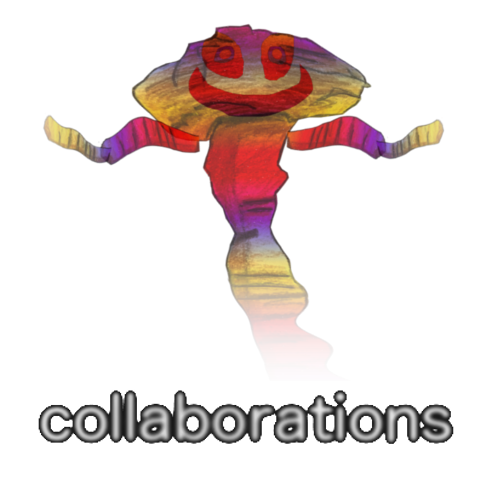
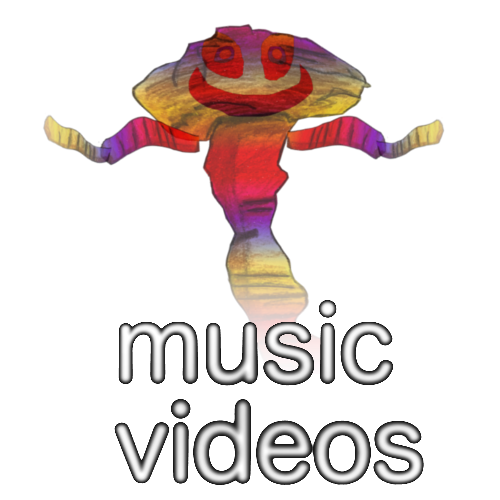
added sugar

Changed region(s): [[0.06, 0.6, 0.93, 0.99]]

diff --git a/sketchint.js b/sketchint.js
@@ -6,7 +6,6 @@ var hoourl="f5YsAUwXSHQ";
 var pimurl="15p5iMZQsp0";
 var hrfurl="3892272952";
 var chi2="http://airport-anifes.jp/en/";
-
 //background variables
 var numstars=100;
 var stars=[];
@@ -600,7 +599,7 @@ function Menu(){
 
 
 function populatemenus(){
-	for(var i=0;i<43;i++) menus[i]=new Menu();
+	for(var i=0;i<45;i++) menus[i]=new Menu();
 	
 	//main menu
 	menus[1].add(new Disptext("harry rubin-falcone: music and animation",.5,.35,.4));
@@ -609,21 +608,25 @@ function populatemenus(){
 	//menus[1].add(new Disptext("a moving painting with fractal and hand drawn art, coming 2018",.5,.7,.2));
 	menus[1].add(new Disptext("most recent:",.5,.5,.3));
 	
-	menus[1].add(new Button(true,32,.2,.62,.2,.2,false,"hawk1"));
-	menus[1].add(new Button(true,39,.4,.62,.2,.2,false,"pimba"));
-	menus[1].add(new Button(true,40,.6,.62,.2,.2,false,"hoodoos"));
-	menus[1].add(new Button(true,41,.8,.62,.2,.2,false,"hrfep"));
+	menus[1].add(new Button(true,32,.1,.62,.2,.2,false,"hawk1"));
+	menus[1].add(new Button(true,39,.3,.62,.2,.2,false,"pimba"));
+	menus[1].add(new Button(true,40,.5,.62,.2,.2,false,"hoodoos"));
+	menus[1].add(new Button(true,41,.7,.62,.2,.2,false,"hrfep"));
+	menus[1].add(new Button(true,44,.9,.62,.2,.2,false,"sugar"));
 
 	menus[32].add(new Vid(1,hawkurl,32));
 	menus[39].add(new Vid(1,pimurl,39));
 	menus[40].add(new Vid(1,hoourl,40));
 	menus[41].add(new Vid(0,hrfurl,41));
 	menus[42].add(new Vid(0,hrfurl,42));
+	menus[43].add(new Vid(1,"WEh_utcEjYU",43));
+	menus[44].add(new Vid(1,"WEh_utcEjYU",44));
 	
 	menus[32].add(new Button(true,1,.5,.75,.1,.1,false,"back"));
 	menus[39].add(new Button(true,1,.5,.75,.1,.1,false,"back"));
 	menus[40].add(new Button(true,1,.5,.75,.1,.1,false,"back"));
 	menus[41].add(new Button(true,1,.5,.75,.1,.1,false,"back"));
+	menus[44].add(new Button(true,1,.5,.75,.1,.1,false,"back"));
 	
 	
 
@@ -658,7 +661,9 @@ function populatemenus(){
 		//menus[2].add(new Button(true,22,.9,.5,asize,asize,false,"leaf1"));
 			menus[33].add(new Button(true,31,.366666,.4,asize*1.8,asize*1.8,false,"hawk1"));
 	menus[33].add(new Button(true,10,.63333,.4,asize*1.8,asize*1.8,false,"three"));
-	menus[33].add(new Button(true,14,.2,.68,asize,asize,false,"kite"));
+	menus[33].add(new Button(true,14,.15,.68,asize,asize,false,"kite"));
+	menus[33].add(new Button(true,15,.27,.68,asize,asize,false,"ship"));
+	
 	menus[33].add(new Button(true,16,.7,.68,asizeb,asizeb,false,"cows"));
 	menus[33].add(new Button(true,17,.8,.68,asizeb,asizeb,false,"train"));
 	menus[33].add(new Button(true,18,.9,.68,asizeb,asizeb,false,"hello"));
@@ -668,7 +673,7 @@ function populatemenus(){
 	menus[34].add(new Button(true,13,.74,.55,asize*1.5,asize*1.5,false,"ep3"));
 
 
-	menus[35].add(new Button(true,15,.75,.5,asize*1.5,asize*1.5,false,"ship"));
+	menus[35].add(new Button(true,43,.75,.5,asize*1.5,asize*1.5,false,"sugar"));
 	menus[35].add(new Button(true,36,.25,.5,asize*1.5,asize*1.5,false,"hoodoos"));
 	menus[35].add(new Button(true,37,.5,.5,asize*1.5,asize*1.5,false,"pimba"));
 	
@@ -746,7 +751,6 @@ function populatemenus(){
 				menus[6].add(new Button(false,"https://www.facebook.com/orvietocinemafest/photos/a.181100475954382/291980524866376/?type=3&theater",.93,.5,hfs,hfs,false,"orv"));
 
 	
-	
 	menus[6].add(new Disptext("three dancers",.25,fl2y-.1,.2));
 	var dansi=.19;
 	var fly2=.16;
@@ -795,12 +799,13 @@ function populatemenus(){
 	menus[12].add(new Button(true,34,.5,.75,.1,.1,false,"back"));
 	menus[13].add(new Button(true,34,.5,.75,.1,.1,false,"back"));
 	
-	//back button for collabs
-	menus[15].add(new Button(true,35,.5,.75,.1,.1,false,"back"));
+	//back button for music videos
+	menus[43].add(new Button(true,35,.5,.75,.1,.1,false,"back"));
 	menus[36].add(new Button(true,35,.5,.75,.1,.1,false,"back"));
 	menus[37].add(new Button(true,35,.5,.75,.1,.1,false,"back"));
 		
 	//back buttons for shorts
+	menus[15].add(new Button(true,33,.5,.75,.1,.1,false,"back"));
 	menus[10].add(new Button(true,33,.5,.75,.1,.1,false,"back"));
 	menus[14].add(new Button(true,33,.5,.75,.1,.1,false,"back"));
 	menus[16].add(new Button(true,33,.5,.75,.1,.1,false,"back"));

diff --git a/sketch.js b/sketch.js
@@ -599,7 +599,7 @@ function Menu(){
 
 
 function populatemenus(){
-	for(var i=0;i<43;i++) menus[i]=new Menu();
+	for(var i=0;i<45;i++) menus[i]=new Menu();
 	
 	//main menu
 	menus[1].add(new Disptext("harry rubin-falcone: music and animation",.5,.35,.4));
@@ -608,21 +608,25 @@ function populatemenus(){
 	//menus[1].add(new Disptext("a moving painting with fractal and hand drawn art, coming 2018",.5,.7,.2));
 	menus[1].add(new Disptext("most recent:",.5,.5,.3));
 	
-	menus[1].add(new Button(true,32,.2,.62,.2,.2,false,"hawk1"));
-	menus[1].add(new Button(true,39,.4,.62,.2,.2,false,"pimba"));
-	menus[1].add(new Button(true,40,.6,.62,.2,.2,false,"hoodoos"));
-	menus[1].add(new Button(true,41,.8,.62,.2,.2,false,"hrfep"));
+	menus[1].add(new Button(true,32,.1,.62,.2,.2,false,"hawk1"));
+	menus[1].add(new Button(true,39,.3,.62,.2,.2,false,"pimba"));
+	menus[1].add(new Button(true,40,.5,.62,.2,.2,false,"hoodoos"));
+	menus[1].add(new Button(true,41,.7,.62,.2,.2,false,"hrfep"));
+	menus[1].add(new Button(true,44,.9,.62,.2,.2,false,"sugar"));
 
 	menus[32].add(new Vid(1,hawkurl,32));
 	menus[39].add(new Vid(1,pimurl,39));
 	menus[40].add(new Vid(1,hoourl,40));
 	menus[41].add(new Vid(0,hrfurl,41));
 	menus[42].add(new Vid(0,hrfurl,42));
+	menus[43].add(new Vid(1,"WEh_utcEjYU",43));
+	menus[44].add(new Vid(1,"WEh_utcEjYU",44));
 	
 	menus[32].add(new Button(true,1,.5,.75,.1,.1,false,"back"));
 	menus[39].add(new Button(true,1,.5,.75,.1,.1,false,"back"));
 	menus[40].add(new Button(true,1,.5,.75,.1,.1,false,"back"));
 	menus[41].add(new Button(true,1,.5,.75,.1,.1,false,"back"));
+	menus[44].add(new Button(true,1,.5,.75,.1,.1,false,"back"));
 	
 	
 
@@ -657,7 +661,9 @@ function populatemenus(){
 		//menus[2].add(new Button(true,22,.9,.5,asize,asize,false,"leaf1"));
 			menus[33].add(new Button(true,31,.366666,.4,asize*1.8,asize*1.8,false,"hawk1"));
 	menus[33].add(new Button(true,10,.63333,.4,asize*1.8,asize*1.8,false,"three"));
-	menus[33].add(new Button(true,14,.2,.68,asize,asize,false,"kite"));
+	menus[33].add(new Button(true,14,.15,.68,asize,asize,false,"kite"));
+	menus[33].add(new Button(true,15,.27,.68,asize,asize,false,"ship"));
+	
 	menus[33].add(new Button(true,16,.7,.68,asizeb,asizeb,false,"cows"));
 	menus[33].add(new Button(true,17,.8,.68,asizeb,asizeb,false,"train"));
 	menus[33].add(new Button(true,18,.9,.68,asizeb,asizeb,false,"hello"));
@@ -667,7 +673,7 @@ function populatemenus(){
 	menus[34].add(new Button(true,13,.74,.55,asize*1.5,asize*1.5,false,"ep3"));
 
 
-	menus[35].add(new Button(true,15,.75,.5,asize*1.5,asize*1.5,false,"ship"));
+	menus[35].add(new Button(true,43,.75,.5,asize*1.5,asize*1.5,false,"sugar"));
 	menus[35].add(new Button(true,36,.25,.5,asize*1.5,asize*1.5,false,"hoodoos"));
 	menus[35].add(new Button(true,37,.5,.5,asize*1.5,asize*1.5,false,"pimba"));
 	
@@ -793,12 +799,13 @@ function populatemenus(){
 	menus[12].add(new Button(true,34,.5,.75,.1,.1,false,"back"));
 	menus[13].add(new Button(true,34,.5,.75,.1,.1,false,"back"));
 	
-	//back button for collabs
-	menus[15].add(new Button(true,35,.5,.75,.1,.1,false,"back"));
+	//back button for music videos
+	menus[43].add(new Button(true,35,.5,.75,.1,.1,false,"back"));
 	menus[36].add(new Button(true,35,.5,.75,.1,.1,false,"back"));
 	menus[37].add(new Button(true,35,.5,.75,.1,.1,false,"back"));
 		
 	//back buttons for shorts
+	menus[15].add(new Button(true,33,.5,.75,.1,.1,false,"back"));
 	menus[10].add(new Button(true,33,.5,.75,.1,.1,false,"back"));
 	menus[14].add(new Button(true,33,.5,.75,.1,.1,false,"back"));
 	menus[16].add(new Button(true,33,.5,.75,.1,.1,false,"back"));

diff --git a/sketchmus.js b/sketchmus.js
@@ -599,7 +599,7 @@ function Menu(){
 
 
 function populatemenus(){
-	for(var i=0;i<43;i++) menus[i]=new Menu();
+	for(var i=0;i<45;i++) menus[i]=new Menu();
 	
 	//main menu
 	menus[1].add(new Disptext("harry rubin-falcone: music and animation",.5,.35,.4));
@@ -608,21 +608,25 @@ function populatemenus(){
 	//menus[1].add(new Disptext("a moving painting with fractal and hand drawn art, coming 2018",.5,.7,.2));
 	menus[1].add(new Disptext("most recent:",.5,.5,.3));
 	
-	menus[1].add(new Button(true,32,.2,.62,.2,.2,false,"hawk1"));
-	menus[1].add(new Button(true,39,.4,.62,.2,.2,false,"pimba"));
-	menus[1].add(new Button(true,40,.6,.62,.2,.2,false,"hoodoos"));
-	menus[1].add(new Button(true,41,.8,.62,.2,.2,false,"hrfep"));
+	menus[1].add(new Button(true,32,.1,.62,.2,.2,false,"hawk1"));
+	menus[1].add(new Button(true,39,.3,.62,.2,.2,false,"pimba"));
+	menus[1].add(new Button(true,40,.5,.62,.2,.2,false,"hoodoos"));
+	menus[1].add(new Button(true,41,.7,.62,.2,.2,false,"hrfep"));
+	menus[1].add(new Button(true,44,.9,.62,.2,.2,false,"sugar"));
 
 	menus[32].add(new Vid(1,hawkurl,32));
 	menus[39].add(new Vid(1,pimurl,39));
 	menus[40].add(new Vid(1,hoourl,40));
 	menus[41].add(new Vid(0,hrfurl,41));
 	menus[42].add(new Vid(0,hrfurl,42));
+	menus[43].add(new Vid(1,"WEh_utcEjYU",43));
+	menus[44].add(new Vid(1,"WEh_utcEjYU",44));
 	
 	menus[32].add(new Button(true,1,.5,.75,.1,.1,false,"back"));
 	menus[39].add(new Button(true,1,.5,.75,.1,.1,false,"back"));
 	menus[40].add(new Button(true,1,.5,.75,.1,.1,false,"back"));
 	menus[41].add(new Button(true,1,.5,.75,.1,.1,false,"back"));
+	menus[44].add(new Button(true,1,.5,.75,.1,.1,false,"back"));
 	
 	
 
@@ -657,7 +661,9 @@ function populatemenus(){
 		//menus[2].add(new Button(true,22,.9,.5,asize,asize,false,"leaf1"));
 			menus[33].add(new Button(true,31,.366666,.4,asize*1.8,asize*1.8,false,"hawk1"));
 	menus[33].add(new Button(true,10,.63333,.4,asize*1.8,asize*1.8,false,"three"));
-	menus[33].add(new Button(true,14,.2,.68,asize,asize,false,"kite"));
+	menus[33].add(new Button(true,14,.15,.68,asize,asize,false,"kite"));
+	menus[33].add(new Button(true,15,.27,.68,asize,asize,false,"ship"));
+	
 	menus[33].add(new Button(true,16,.7,.68,asizeb,asizeb,false,"cows"));
 	menus[33].add(new Button(true,17,.8,.68,asizeb,asizeb,false,"train"));
 	menus[33].add(new Button(true,18,.9,.68,asizeb,asizeb,false,"hello"));
@@ -667,7 +673,7 @@ function populatemenus(){
 	menus[34].add(new Button(true,13,.74,.55,asize*1.5,asize*1.5,false,"ep3"));
 
 
-	menus[35].add(new Button(true,15,.75,.5,asize*1.5,asize*1.5,false,"ship"));
+	menus[35].add(new Button(true,43,.75,.5,asize*1.5,asize*1.5,false,"sugar"));
 	menus[35].add(new Button(true,36,.25,.5,asize*1.5,asize*1.5,false,"hoodoos"));
 	menus[35].add(new Button(true,37,.5,.5,asize*1.5,asize*1.5,false,"pimba"));
 	
@@ -793,12 +799,13 @@ function populatemenus(){
 	menus[12].add(new Button(true,34,.5,.75,.1,.1,false,"back"));
 	menus[13].add(new Button(true,34,.5,.75,.1,.1,false,"back"));
 	
-	//back button for collabs
-	menus[15].add(new Button(true,35,.5,.75,.1,.1,false,"back"));
+	//back button for music videos
+	menus[43].add(new Button(true,35,.5,.75,.1,.1,false,"back"));
 	menus[36].add(new Button(true,35,.5,.75,.1,.1,false,"back"));
 	menus[37].add(new Button(true,35,.5,.75,.1,.1,false,"back"));
 		
 	//back buttons for shorts
+	menus[15].add(new Button(true,33,.5,.75,.1,.1,false,"back"));
 	menus[10].add(new Button(true,33,.5,.75,.1,.1,false,"back"));
 	menus[14].add(new Button(true,33,.5,.75,.1,.1,false,"back"));
 	menus[16].add(new Button(true,33,.5,.75,.1,.1,false,"back"));
